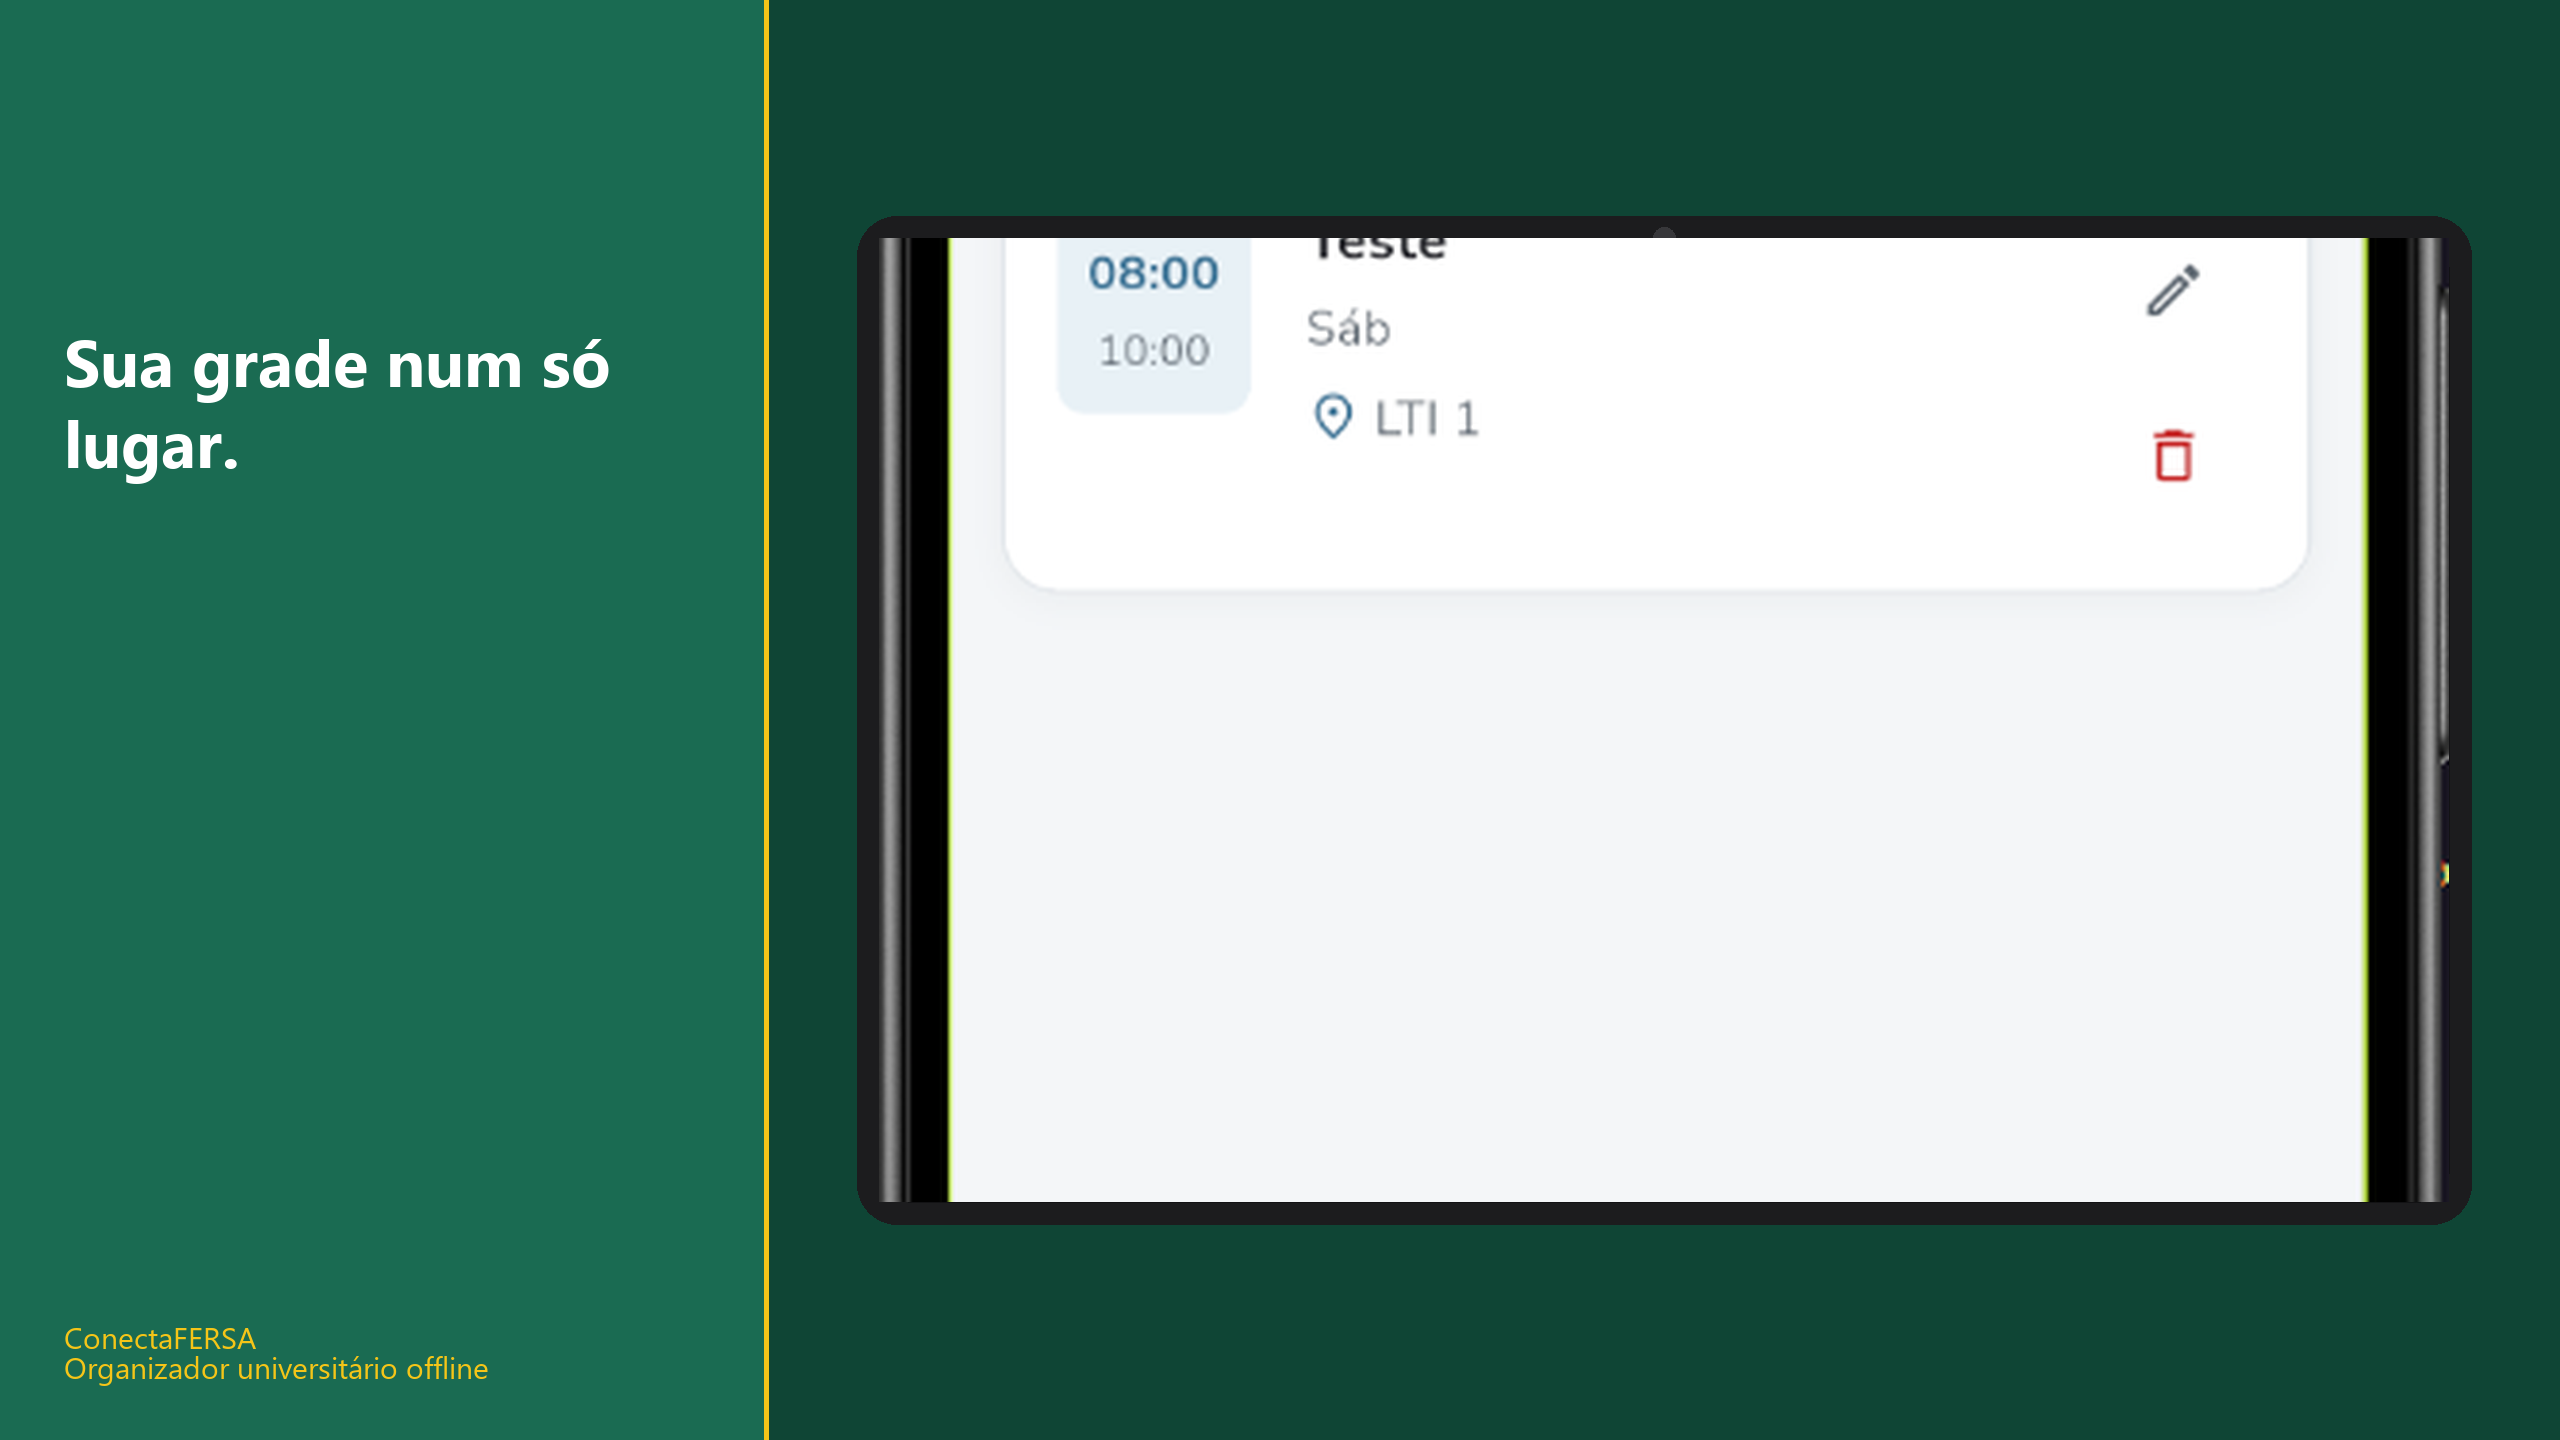
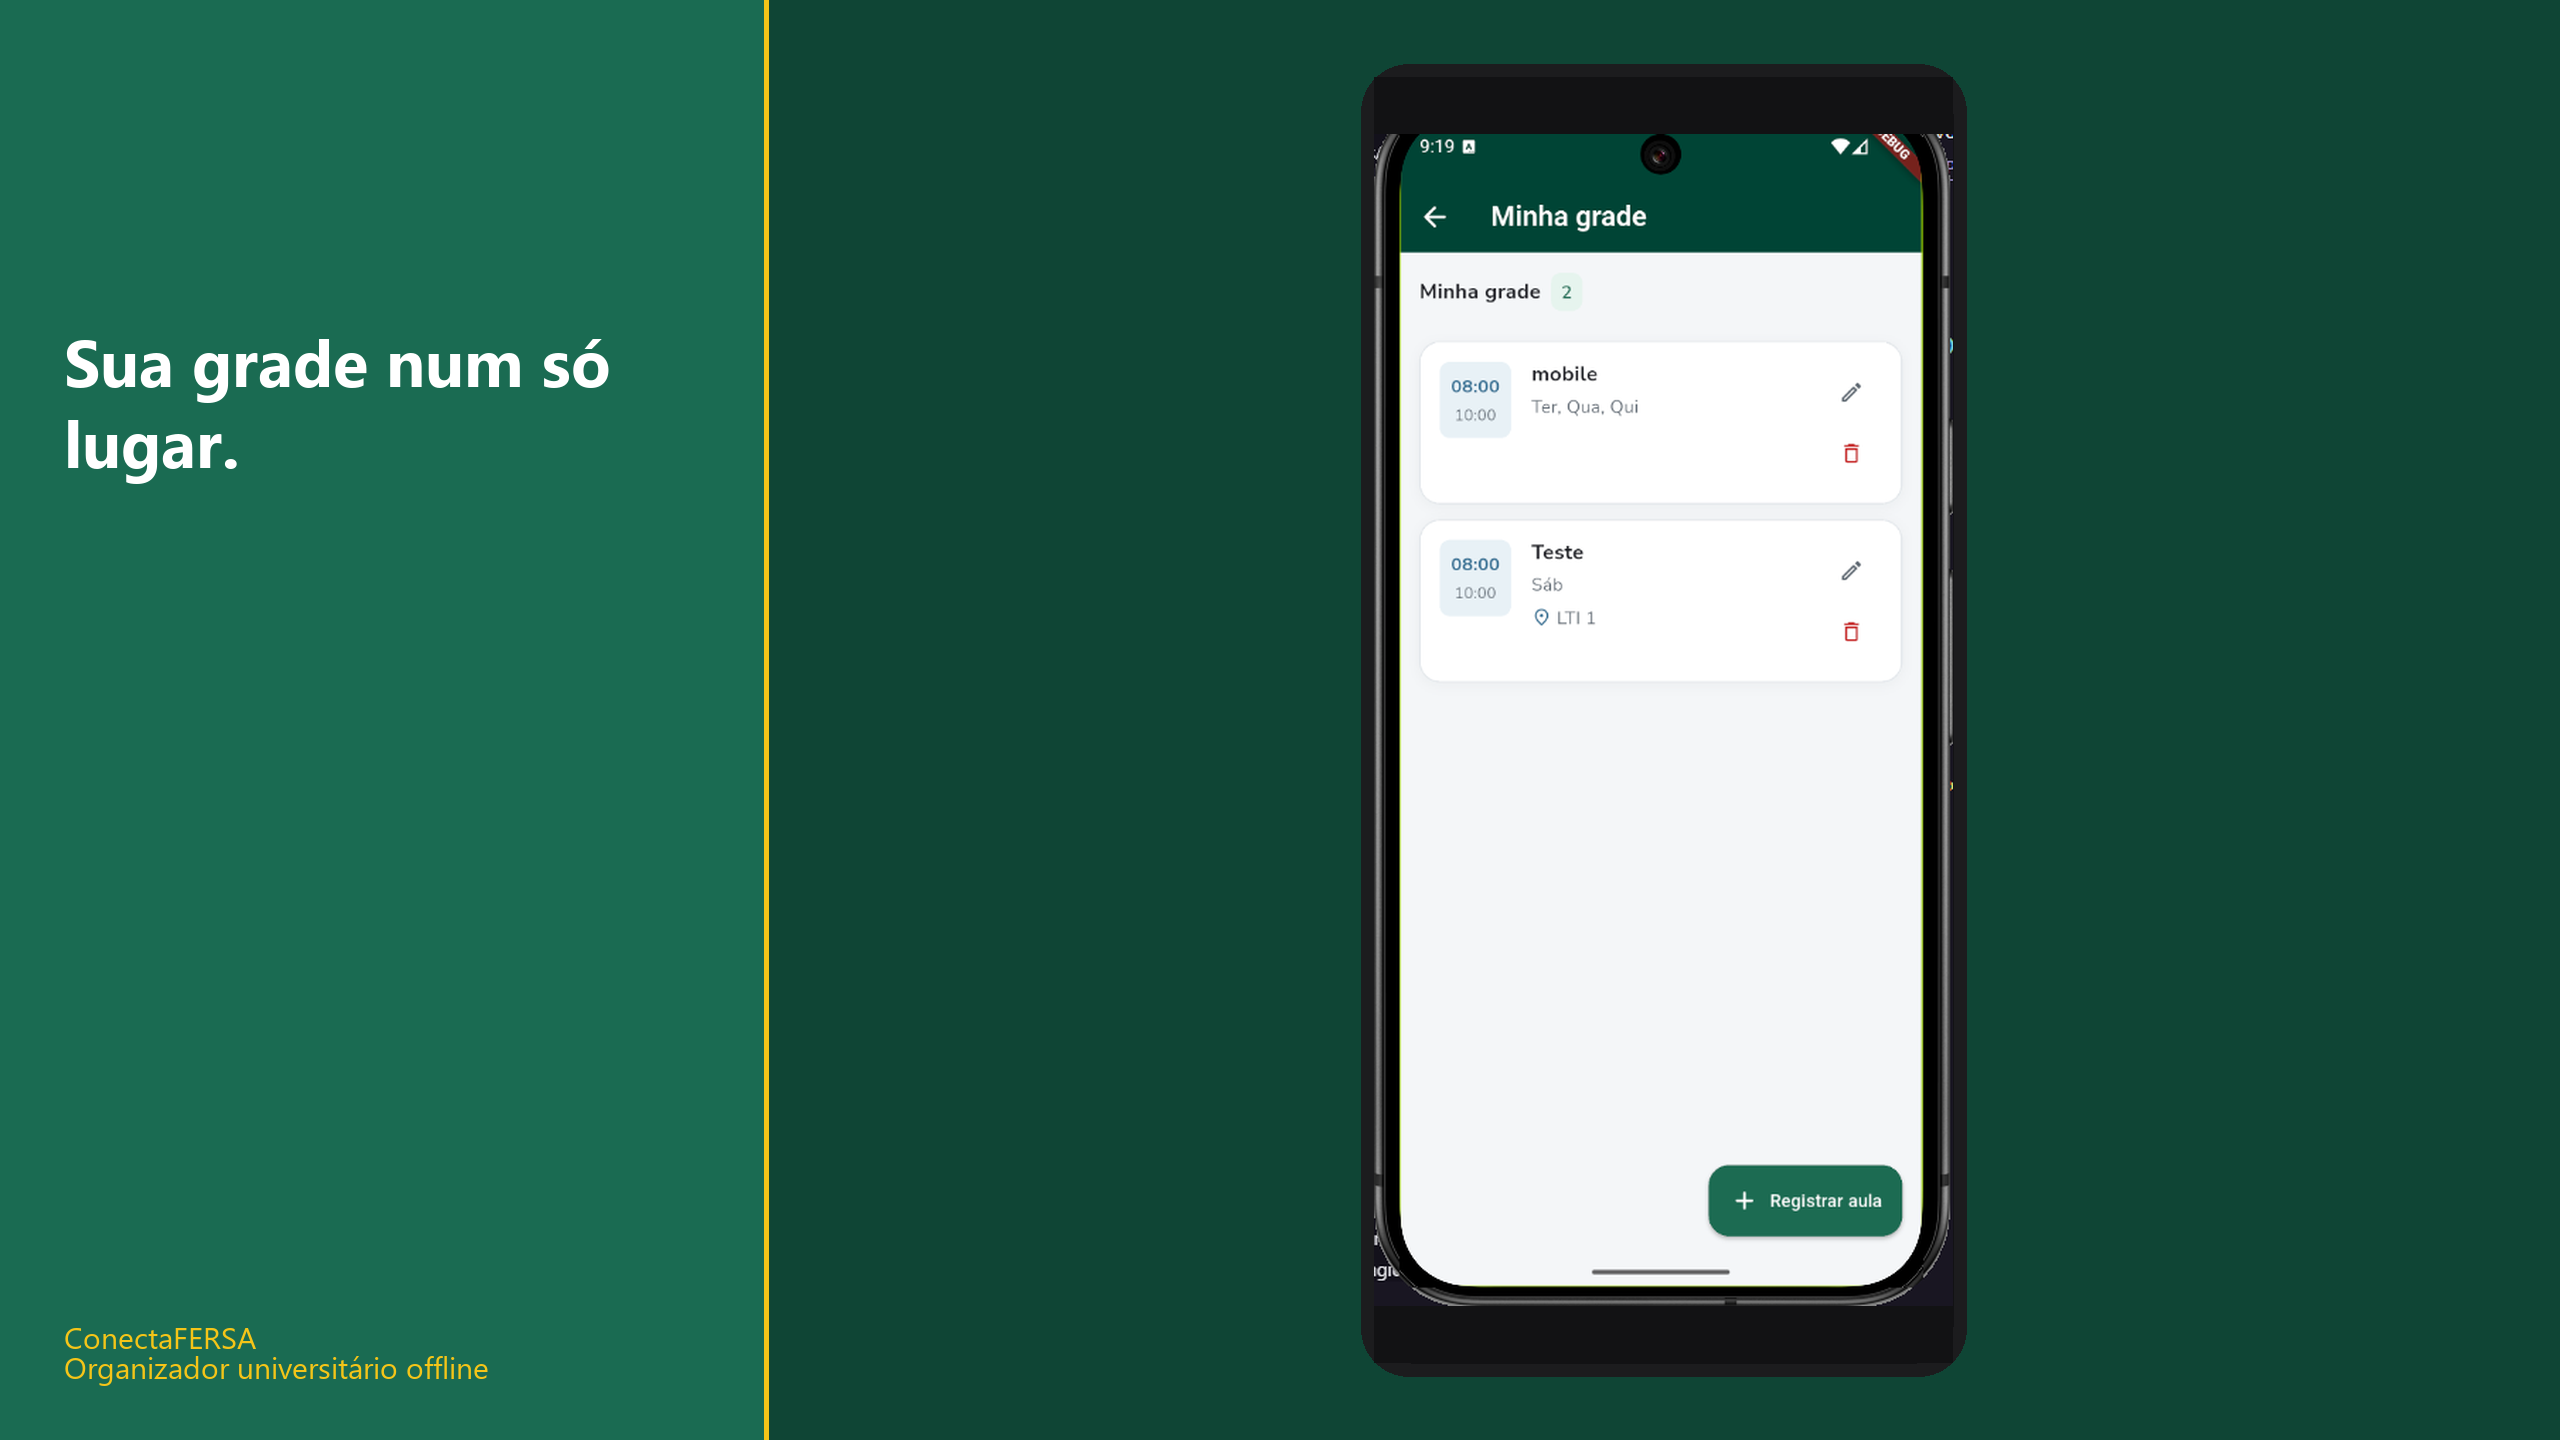
refactor(compose_tablet_screenshots): update layout for phone-first apps and improve image processing
- Renamed functions and adjusted layout to accommodate portrait phone mockups instead of landscape tablet frames.
- Enhanced image scaling and fitting logic to ensure full UI visibility for phone-first applications.
- Updated README to reflect changes in usage and layout specifications.

diff --git a/.cursor/skills/publicidade/scripts/compose_tablet_screenshots.py b/.cursor/skills/publicidade/scripts/compose_tablet_screenshots.py
@@ -1,7 +1,8 @@
 #!/usr/bin/env python3
 """Compose Google Play tablet promo screenshots (7" and 10") from real UI prints.
 
-Layout: headline panel ~30% left + landscape tablet mockup ~70% right.
+Layout: headline panel ~30% left + portrait phone mockup ~70% right on 16:9 canvas.
+Phone-first apps stay legible (landscape tablet frame + cover crop made UI unreadable).
 Used by the publicidade skill when UI fidelity matters more than GenerateImage.
 
 Requires: pip install Pillow
@@ -98,41 +99,45 @@ def _rounded_rect(
     draw.rounded_rectangle(box, radius=radius, fill=fill)
 
 
-def _prepare_screen_for_tablet(
+def _prepare_screen_for_phone(
     screen: Image.Image,
     inner_w: int,
     inner_h: int,
+    *,
+    screen_bg: tuple[int, int, int],
 ) -> Image.Image:
-    """Portrait phone capture scaled to cover a landscape tablet screen (no phone bezel)."""
-    trim_top = int(screen.height * 0.055)
+    """Portrait capture scaled to fit inside the phone screen (full UI visible)."""
+    trim_top = int(screen.height * 0.04)
     trimmed = screen.crop((0, trim_top, screen.width, screen.height))
     sw, sh = trimmed.size
-    scale = max(inner_w / sw, inner_h / sh)
-    new_w = int(sw * scale)
-    new_h = int(sh * scale)
+    scale = min(inner_w / sw, inner_h / sh)
+    new_w = max(1, int(sw * scale))
+    new_h = max(1, int(sh * scale))
     resized = trimmed.resize((new_w, new_h), Image.Resampling.LANCZOS)
-    left = (new_w - inner_w) // 2
-    top = (new_h - inner_h) // 2
-    return resized.crop((left, top, left + inner_w, top + inner_h))
+    fitted = Image.new("RGB", (inner_w, inner_h), screen_bg)
+    offset_x = (inner_w - new_w) // 2
+    offset_y = (inner_h - new_h) // 2
+    fitted.paste(resized, (offset_x, offset_y))
+    return fitted
 
 
-def _tablet_device_box(
+def _phone_device_box(
     width: int,
     height: int,
     panel_w: int,
 ) -> tuple[int, int, int, int]:
-    """Landscape tablet frame on the right ~70% of the canvas."""
-    margin_x = int(width * 0.035)
-    margin_y = int(height * 0.06)
+    """Portrait phone frame on the right ~70% of the landscape promo canvas."""
+    margin_x = int(width * 0.028)
+    margin_y = int(height * 0.045)
     avail_w = width - panel_w - margin_x * 2
     avail_h = height - margin_y * 2
-    # Target ~16:10 landscape device.
-    target_ratio = 16 / 10
-    box_w = avail_w
-    box_h = int(box_w / target_ratio)
-    if box_h > avail_h:
-        box_h = avail_h
-        box_w = int(box_h * target_ratio)
+    # ~9:19.5 modern phone aspect (width / height).
+    target_ratio = 9 / 19.5
+    box_h = avail_h
+    box_w = int(box_h * target_ratio)
+    if box_w > avail_w:
+        box_w = avail_w
+        box_h = int(box_w / target_ratio)
     left = panel_w + margin_x + (avail_w - box_w) // 2
     top = margin_y + (avail_h - box_h) // 2
     return (left, top, left + box_w, top + box_h)
@@ -185,30 +190,29 @@ def compose_card(
         raise FileNotFoundError(f"Print not found: {print_path}")
     screen = Image.open(print_path).convert("RGB")
 
-    tablet_left, tablet_top, tablet_right, tablet_bottom = _tablet_device_box(width, height, panel_w)
-    bezel_px = max(12, int((tablet_right - tablet_left) * 0.014))
-    radius_outer = max(22, int((tablet_right - tablet_left) * 0.025))
-    radius_inner = max(14, radius_outer - 6)
-    inner_left = tablet_left + bezel_px
-    inner_top = tablet_top + bezel_px
-    inner_right = tablet_right - bezel_px
-    inner_bottom = tablet_bottom - bezel_px
+    phone_left, phone_top, phone_right, phone_bottom = _phone_device_box(width, height, panel_w)
+    bezel_px = max(10, int((phone_right - phone_left) * 0.022))
+    radius_outer = max(28, int((phone_right - phone_left) * 0.08))
+    radius_inner = max(18, radius_outer - 5)
+    inner_left = phone_left + bezel_px
+    inner_top = phone_top + bezel_px
+    inner_right = phone_right - bezel_px
+    inner_bottom = phone_bottom - bezel_px
     inner_w = inner_right - inner_left
     inner_h = inner_bottom - inner_top
 
-    _rounded_rect(draw, (tablet_left, tablet_top, tablet_right, tablet_bottom), radius_outer, bezel)
+    _rounded_rect(draw, (phone_left, phone_top, phone_right, phone_bottom), radius_outer, bezel)
     _rounded_rect(draw, (inner_left, inner_top, inner_right, inner_bottom), radius_inner, screen_bg)
 
-    # Front camera (landscape tablet, long edge top).
-    cam_r = max(4, bezel_px // 2)
-    cam_x = (tablet_left + tablet_right) // 2
-    cam_y = tablet_top + bezel_px // 2 + cam_r
+    cam_r = max(5, int(bezel_px * 0.45))
+    cam_x = (inner_left + inner_right) // 2
+    cam_y = inner_top + max(8, int(bezel_px * 0.6))
     draw.ellipse(
         (cam_x - cam_r, cam_y - cam_r, cam_x + cam_r, cam_y + cam_r),
         fill=(55, 55, 58),
     )
 
-    fitted = _prepare_screen_for_tablet(screen, inner_w, inner_h)
+    fitted = _prepare_screen_for_phone(screen, inner_w, inner_h, screen_bg=screen_bg)
     canvas.paste(fitted, (inner_left, inner_top))
     return canvas
 

diff --git a/.cursor/skills/publicidade/scripts/README.md b/.cursor/skills/publicidade/scripts/README.md
@@ -3,7 +3,8 @@
 ## `compose_tablet_screenshots.py`
 
 Compositor determinístico (Pillow) para capturas **tablet 7"** e **10"** da Google Play:
-headline ~30% à esquerda + mockup landscape ~70% à direita.
+headline ~30% à esquerda + mockup de **telefone em portrait** ~70% à direita (canvas 16:9).
+Use quando o app é phone-first — mockup landscape com crop deixava a UI ilegível.
 
 **Quando usar:** pacote loja com prints reais e fidelidade de UI (preferir isto a GenerateImage para tablet).
 
